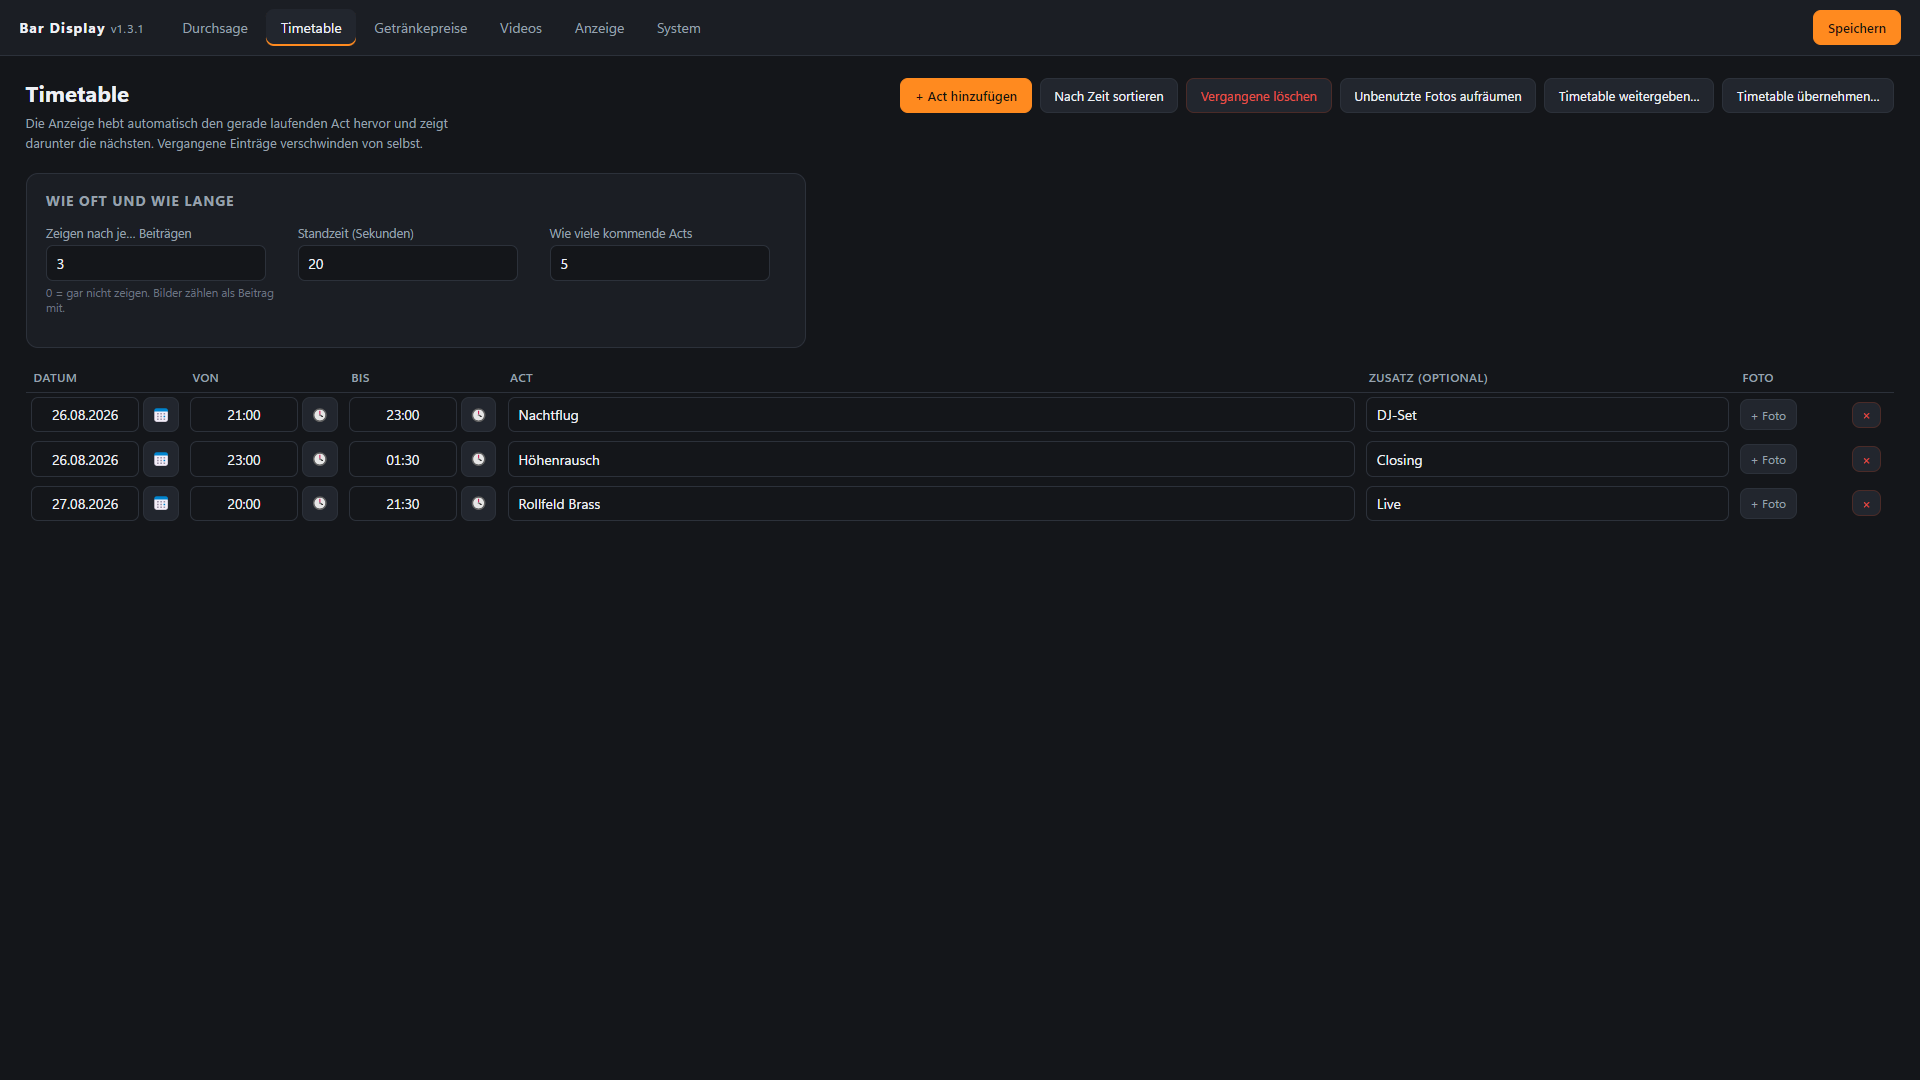
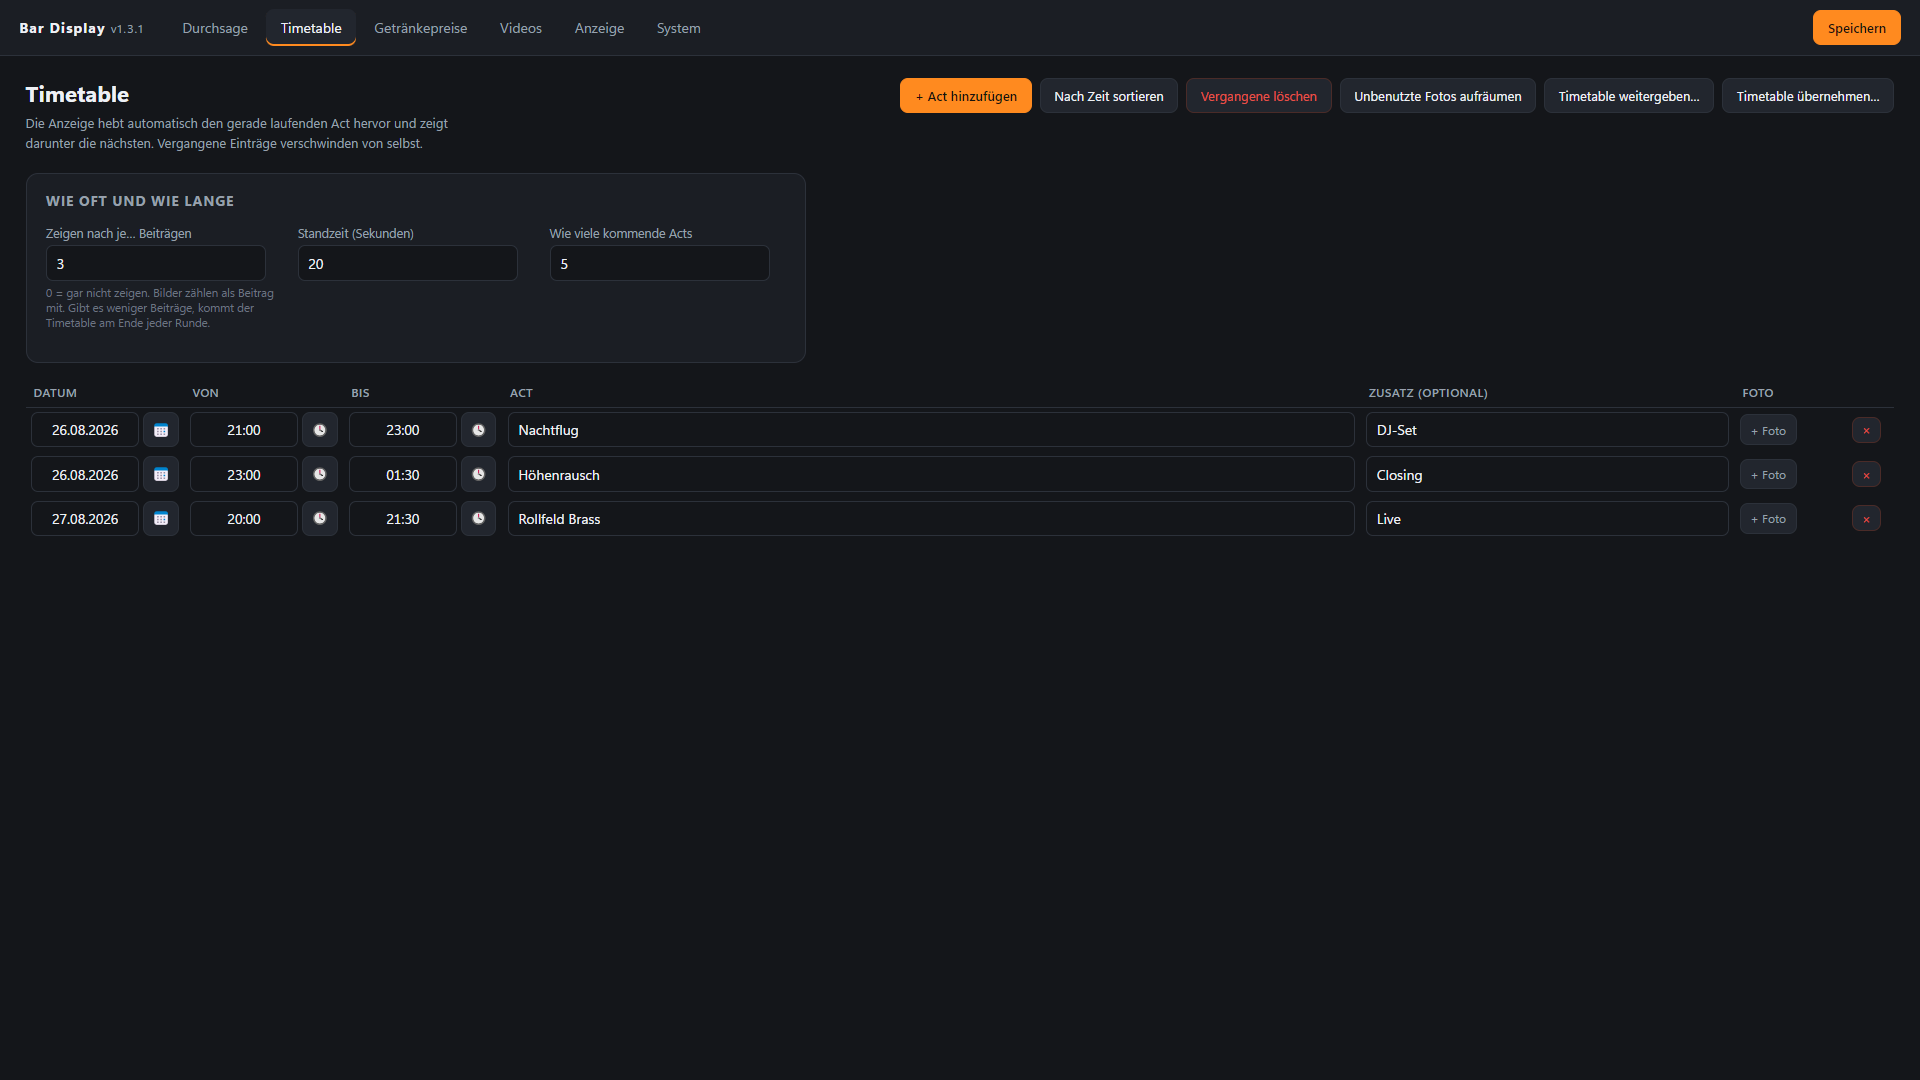
Haeufigkeit bei wenigen Beitraegen
Gibt es weniger Beitraege als die eingestellte Zahl, laesst sich "nach je 3
Beitraegen" nicht wortwoertlich einhalten: bei zwei Bildern muesste eines ein
zweites Mal laufen, bevor der Timetable kommt. Genau so sah es auch aus -
dieselben zwei Bilder immer wieder, dazwischen viel zu selten eine Information:

  vorher   eins > zwei > eins > timetable > zwei > eins > zwei > timetable
  jetzt    eins > zwei > timetable > eins > zwei > timetable

Die Haeufigkeit wird jetzt auf die Zahl der vorhandenen Beitraege gedeckelt.
Jeder Beitrag laeuft einmal, danach kommt die Information - kein Beitrag wird
wiederholt, nur damit die Rechnung aufgeht. Sind genug Beitraege da, gilt die
Einstellung unveraendert.

Das Zusammenstellen einer Runde steht dafuer jetzt in common.js statt in
player.js: dort laesst es sich ohne Bildschirm pruefen. 16 neue Pruefungen, dazu
eine Probe am laufenden Programm mit zwei Bildern.

Changed region(s): [[0.0, 0.3361, 0.9375, 0.4889], [0.0312, 0.275, 0.125, 0.3056]]

diff --git a/test/schedule.test.js b/test/schedule.test.js
@@ -14,7 +14,8 @@ const { isVideoActive, describeWindows, timetableView, entryStartEnd, dayLabel, 
         fensterEnde, countdownText, aktiveDurchsage, durchsageTeile,
         fotoAusschnitt, fotoStil, ausschnittIstStandard,
         mitgeliefertesLogo, durchsageStil, laufDauer,
-        datumParsen, datumAnzeige, zeitParsen, zeitAnzeige } = ctx;
+        datumParsen, datumAnzeige, zeitParsen, zeitAnzeige,
+        wirksameHaeufigkeit, rundeBauen } = ctx;
 // Ein top-level const landet in einem vm-Kontext nicht auf dem globalen
 // Objekt (Funktionsdeklarationen schon). Im Browser sehen die anderen
 // Skripte es trotzdem - hier muss man es ausdruecklich auswerten.
@@ -346,6 +347,65 @@ const qrTest = qrcode(0, 'M');
 qrTest.addData('https://tarmac-festival.de/de-DE/');
 qrTest.make();
 check('Modulanzahl fuer die Festivaladresse', qrTest.getModuleCount(), 29);
+
+console.log('');
+console.log('-- Runde der Schleife --');
+
+// Kurzschrift: 'v:eins' fuer einen Beitrag, 'timetable'/'prices' fuer die Infos
+const kurz = (items) => items.map(i => i.type === 'video' ? 'v:' + i.video.file : i.type);
+const bei = (...namen) => namen.map(n => ({ file: n, enabled: true, always: true }));
+
+// Die Haeufigkeit kann nicht groesser sein als die Zahl der Beitraege - sonst
+// muesste ein Beitrag ein zweites Mal laufen, nur damit die Rechnung aufgeht.
+check('Haeufigkeit 3 bei 5 Beitraegen', wirksameHaeufigkeit(3, 5), 3);
+check('Haeufigkeit 3 bei 2 Beitraegen', wirksameHaeufigkeit(3, 2), 2);
+check('Haeufigkeit 5 bei 1 Beitrag', wirksameHaeufigkeit(5, 1), 1);
+check('Haeufigkeit 0 heisst aus', wirksameHaeufigkeit(0, 5), 0);
+check('ohne Beitraege nichts zu takten', wirksameHaeufigkeit(3, 0), 0);
+check('krumme Eingabe wird abgeschnitten', wirksameHaeufigkeit('2.7', 9), 2);
+
+// Genau der Fall von der Bar: zwei Bilder, Timetable "nach je 3"
+let runde = rundeBauen({ aktiv: bei('eins.jpg', 'zwei.jpg'), hatTimetable: true,
+                         timetableEvery: 3, pricesEvery: 0, zaehler: 0 });
+check('zwei Beitraege, Timetable nach je 3', kurz(runde.items),
+      ['v:eins.jpg', 'v:zwei.jpg', 'timetable']);
+check('kein Beitrag doppelt in der Runde',
+      new Set(kurz(runde.items).filter(x => x.startsWith('v:'))).size, 2);
+
+// Und in der naechsten Runde genauso - der Zaehler laeuft weiter
+runde = rundeBauen({ aktiv: bei('eins.jpg', 'zwei.jpg'), hatTimetable: true,
+                     timetableEvery: 3, pricesEvery: 0, zaehler: runde.zaehler });
+check('naechste Runde gleich', kurz(runde.items), ['v:eins.jpg', 'v:zwei.jpg', 'timetable']);
+
+// Ein einziger Beitrag: er darf nicht dreimal laufen, bis etwas kommt
+runde = rundeBauen({ aktiv: bei('nur.jpg'), hatTimetable: true, hatPreise: true,
+                     timetableEvery: 3, pricesEvery: 5, zaehler: 0 });
+check('ein Beitrag, beide Infos', kurz(runde.items), ['v:nur.jpg', 'timetable', 'prices']);
+
+// Genug Beitraege: dann gilt die Einstellung wortwoertlich
+runde = rundeBauen({ aktiv: bei('a', 'b', 'c', 'd', 'e', 'f'), hatTimetable: true,
+                     hatPreise: true, timetableEvery: 3, pricesEvery: 5, zaehler: 0 });
+check('sechs Beitraege, 3 und 5', kurz(runde.items),
+      ['v:a', 'v:b', 'v:c', 'timetable', 'v:d', 'v:e', 'prices', 'v:f', 'timetable']);
+check('Zaehler steht am Rundenende', runde.zaehler, 6);
+
+// Weniger Beitraege als die Zahl: gedeckelt, statt einen Beitrag zu wiederholen
+runde = rundeBauen({ aktiv: bei('a', 'b', 'c'), hatTimetable: false, hatPreise: true,
+                     timetableEvery: 0, pricesEvery: 5, zaehler: 0 });
+check('drei Beitraege, Preise nach je 5', kurz(runde.items),
+      ['v:a', 'v:b', 'v:c', 'prices']);
+
+// Abgeschaltet bleibt abgeschaltet
+runde = rundeBauen({ aktiv: bei('a', 'b'), hatTimetable: true, hatPreise: true,
+                     timetableEvery: 0, pricesEvery: 0, zaehler: 0 });
+check('0 zeigt gar nichts', kurz(runde.items), ['v:a', 'v:b']);
+
+// Ohne Beitraege wenigstens die Informationen
+runde = rundeBauen({ aktiv: [], hatTimetable: true, hatPreise: true,
+                     timetableEvery: 3, pricesEvery: 5, zaehler: 0 });
+check('ohne Beitraege nur die Infos', kurz(runde.items), ['timetable', 'prices']);
+check('ohne alles bleibt der Leerlauf',
+      kurz(rundeBauen({ aktiv: [], zaehler: 0 }).items), ['idle']);
 
 console.log('\n' + pass + ' bestanden, ' + fail + ' fehlgeschlagen');
 process.exit(fail ? 1 : 0);

diff --git a/src/common.js b/src/common.js
@@ -425,3 +425,55 @@ function zeitAnzeige(hhmm) {
   const m = String(hhmm == null ? '' : hhmm).match(/^(\d{1,2}):(\d{2})$/);
   return m ? zweistellig(+m[1]) + ':' + m[2] : '';
 }
+
+// ---------------------------------------------------------------------------
+// Eine Runde der Schleife zusammenstellen
+// ---------------------------------------------------------------------------
+// Die Beitraege laufen in ihrer Reihenfolge, dazwischen kommen Timetable und
+// Preise. Wie oft, steht im jeweiligen Reiter: "zeigen nach je ... Beitraegen".
+//
+// Gibt es weniger Beitraege als die eingestellte Zahl, laesst sich die
+// Haeufigkeit nicht wortwoertlich einhalten - bei zwei Bildern und "nach je 3"
+// muesste ein Bild ein zweites Mal laufen, bevor der Timetable kommt. Genau das
+// sah man auf dem Schirm: dieselben zwei Bilder immer wieder, dazwischen viel
+// zu selten eine Information. Deshalb wird die Haeufigkeit auf die Zahl der
+// vorhandenen Beitraege gedeckelt - dann laeuft jeder Beitrag einmal, danach
+// kommt die Information.
+function wirksameHaeufigkeit(jede, anzahl) {
+  const e = Math.floor(Number(jede) || 0);
+  if (e <= 0 || !anzahl) return 0;      // 0 = gar nicht zeigen
+  return Math.min(e, anzahl);
+}
+
+/**
+ * aktiv           die Beitraege, die gerade laufen duerfen
+ * hatTimetable    gibt es ueberhaupt Acts?
+ * hatPreise       gibt es ueberhaupt Preise?
+ * zaehler         Stand des Beitragszaehlers; laeuft ueber die Runden hinweg
+ *                 weiter, sonst erschiene "nach je 5" bei 3 Beitraegen nie
+ */
+function rundeBauen(opt) {
+  const o = opt || {};
+  const aktiv = o.aktiv || [];
+  const ttJede = o.hatTimetable ? wirksameHaeufigkeit(o.timetableEvery, aktiv.length) : 0;
+  const prJede = o.hatPreise ? wirksameHaeufigkeit(o.pricesEvery, aktiv.length) : 0;
+
+  let zaehler = Number(o.zaehler) || 0;
+  const items = [];
+
+  for (const v of aktiv) {
+    items.push({ type: 'video', video: v });
+    zaehler++;
+    if (ttJede && zaehler % ttJede === 0) items.push({ type: 'timetable' });
+    if (prJede && zaehler % prJede === 0) items.push({ type: 'prices' });
+  }
+
+  if (items.length === 0) {
+    // Kein Beitrag aktiv -> wenigstens die Informationen zeigen
+    if (o.hatTimetable) items.push({ type: 'timetable' });
+    if (o.hatPreise) items.push({ type: 'prices' });
+    if (items.length === 0) items.push({ type: 'idle' });
+  }
+
+  return { items, zaehler };
+}

diff --git a/src/player.js b/src/player.js
@@ -323,31 +323,22 @@ function clearTimers() {
 function buildPlaylist() {
   const now = new Date();
   const s = cfg.settings;
-  const active = nurVorschau ? [] : (cfg.videos || []).filter(v => isVideoActive(v, now));
-
-  const hasTT = (cfg.timetable || []).length > 0;
   const sp = cfg.special || {};
-  const hasPR = (cfg.prices || []).some(c => (c.items || []).length > 0) ||
-                (sp.enabled && sp.name);
 
-  const items = [];
-  for (const v of active) {
-    items.push({ type: 'video', video: v });
-    videoCounter++;
-    // Zähler läuft ueber Rundengrenzen hinweg weiter - sonst würde z.B. bei
-    // 3 Videos und "Preise nach je 5 Videos" die Preisliste nie erscheinen
-    if (hasTT && s.timetableEvery > 0 && videoCounter % s.timetableEvery === 0) items.push({ type: 'timetable' });
-    if (hasPR && s.pricesEvery > 0 && videoCounter % s.pricesEvery === 0) items.push({ type: 'prices' });
-  }
+  // Das Zusammenstellen selbst steht in common.js - dort laesst es sich ohne
+  // Bildschirm pruefen.
+  const runde = rundeBauen({
+    aktiv: nurVorschau ? [] : (cfg.videos || []).filter(v => isVideoActive(v, now)),
+    hatTimetable: (cfg.timetable || []).length > 0,
+    hatPreise: (cfg.prices || []).some(c => (c.items || []).length > 0) ||
+               !!(sp.enabled && sp.name),
+    timetableEvery: s.timetableEvery,
+    pricesEvery: s.pricesEvery,
+    zaehler: videoCounter
+  });
 
-  if (items.length === 0) {
-    // Keine Videos aktiv -> wenigstens die Infos zeigen
-    if (hasTT) items.push({ type: 'timetable' });
-    if (hasPR) items.push({ type: 'prices' });
-    if (items.length === 0) items.push({ type: 'idle' });
-  }
-
-  playlist = items;
+  videoCounter = runde.zaehler;
+  playlist = runde.items;
 }
 
 // ---------------------------------------------------------------------------

diff --git a/src/settings.html b/src/settings.html
@@ -127,7 +127,8 @@
           <label class="field">
             <span>Zeigen nach je&hellip; Beitr&auml;gen</span>
             <input type="number" min="0" max="50" id="s_timetableEvery">
-            <em>0 = gar nicht zeigen. Bilder z&auml;hlen als Beitrag mit.</em>
+            <em>0 = gar nicht zeigen. Bilder z&auml;hlen als Beitrag mit. Gibt es
+              weniger Beitr&auml;ge, kommt der Timetable am Ende jeder Runde.</em>
           </label>
           <label class="field">
             <span>Standzeit (Sekunden)</span>
@@ -175,7 +176,8 @@
           <label class="field">
             <span>Zeigen nach je&hellip; Beitr&auml;gen</span>
             <input type="number" min="0" max="50" id="s_pricesEvery">
-            <em>0 = gar nicht zeigen. Bilder z&auml;hlen als Beitrag mit.</em>
+            <em>0 = gar nicht zeigen. Bilder z&auml;hlen als Beitrag mit. Gibt es
+              weniger Beitr&auml;ge, kommt die Preisliste am Ende jeder Runde.</em>
           </label>
           <label class="field">
             <span>Standzeit (Sekunden)</span>

diff --git a/README.md b/README.md
@@ -407,6 +407,27 @@ Bildschirm, verschieben geht mit den Pfeilen links.
   ob ein Clip läuft, kann nur das Gerät beantworten, das ihn zeigen soll — nicht
   der Browser eines Handys nebenan.
 
+### Wie oft die Info-Slides kommen
+
+Timetable und Preisliste laufen zwischen den Beiträgen mit; wie oft, steht im
+jeweiligen Reiter unter *Wie oft und wie lange*. Der Zähler läuft über die
+Runden hinweg weiter — sonst käme „nach je 5 Beiträgen" bei drei Beiträgen nie.
+
+Sind es **weniger Beiträge als die eingestellte Zahl**, lässt sich die Häufigkeit
+nicht wörtlich einhalten: bei zwei Bildern und „nach je 3" müsste ein Bild ein
+zweites Mal laufen, bevor der Timetable kommt. Genau so sah es auch aus —
+dieselben zwei Bilder immer wieder, dazwischen viel zu selten eine Information.
+Deshalb wird die Häufigkeit auf die Zahl der vorhandenen Beiträge gedeckelt:
+
+| Beiträge | Einstellung | Was läuft |
+|---|---|---|
+| 2 | nach je 3 | Bild 1 · Bild 2 · **Timetable** · Bild 1 · Bild 2 · **Timetable** … |
+| 1 | nach je 5 | Bild · **Timetable** · Bild · **Timetable** … |
+| 6 | nach je 3 | Bild 1–3 · **Timetable** · Bild 4–6 · **Timetable** … |
+
+Jeder Beitrag läuft also einmal, danach kommt die Information — kein Beitrag
+wird wiederholt, nur damit die Rechnung aufgeht.
+
 ### Timetable
 
 ![Einstellungen Timetable](docs/screenshots/einstellungen-timetable.png)
@@ -437,9 +458,9 @@ Act ist in der Tabelle farbig hinterlegt, vergangene sind ausgegraut.
 
 - **Wie oft und wie lange**: nach wie vielen Beiträgen der Timetable erscheint,
   wie lange er stehen bleibt und wie viele kommende Acts er zeigt. `0` schaltet
-  ihn ganz ab. **Bilder zählen als Beitrag mit** – bei zwei Bildern und „nach je
-  3 Beiträgen" kommt der Timetable also etwa jede dritte Standzeit, nicht jede.
-  Der Zähler läuft über die Runden hinweg weiter.
+  ihn ganz ab. **Bilder zählen als Beitrag mit.** Gibt es weniger Beiträge als
+  die eingestellte Zahl, kommt der Timetable am Ende jeder Runde — siehe
+  [Wie oft die Info-Slides kommen](#wie-oft-die-info-slides-kommen).
 - **Foto**: Klick auf *+ Foto* wählt ein Bild, Klick auf die Miniatur tauscht es,
   das rote × entfernt es.
 - **Ausschnitt**: der kleine Knopf unten rechts auf der Miniatur öffnet die
@@ -483,6 +504,11 @@ zur Bilddatei: dasselbe Foto kann bei zwei Acts unterschiedlich sitzen, und beim
 Gruppen wie *Bier*, *Alkoholfrei* oder *Longdrinks*, darin je ein Getränk pro Zeile mit
 Name, Größe und Preis. Die Größe darf leer bleiben. Die Reihenfolge der Gruppen lässt
 sich mit den Pfeilen ändern.
+
+Oben steht **Wie oft und wie lange**: nach wie vielen Beiträgen die Preisliste
+erscheint und wie lange sie stehen bleibt. `0` schaltet sie ab. Es gilt dasselbe
+wie beim Timetable — siehe
+[Wie oft die Info-Slides kommen](#wie-oft-die-info-slides-kommen).
 
 Ganz unten steht die Karte **Spezialshot**. Einmal den Haken setzen, dann Überschrift,
 Name, Größe, Preis und Beschreibung eintragen – fertig. Ohne Haken erscheint das Band
